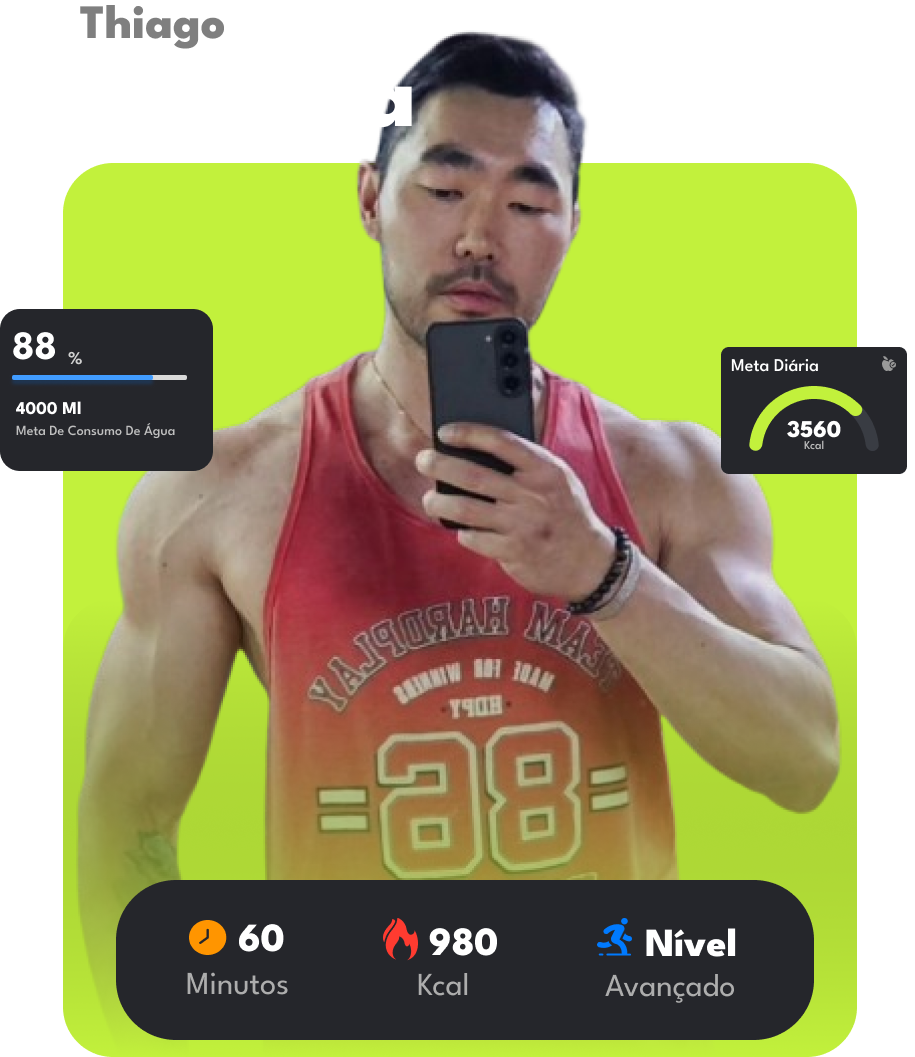
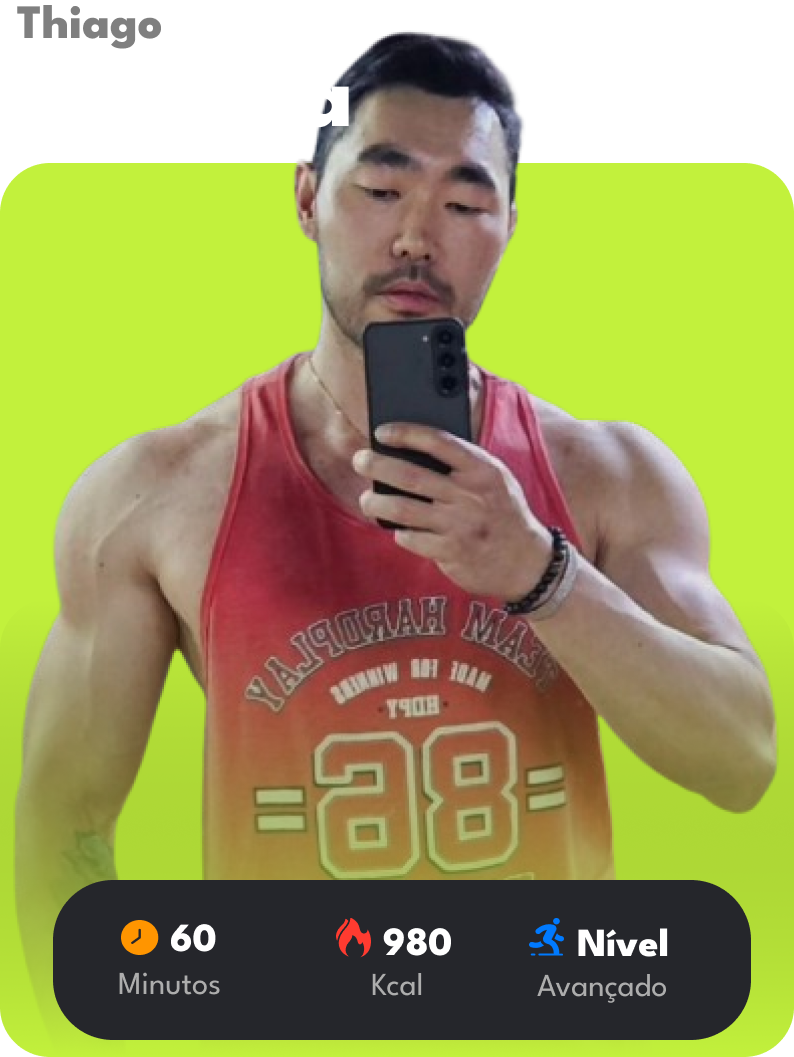
fix: contact

diff --git a/css/main.css b/css/main.css
@@ -1,1 +1,1 @@
-*{margin:0;padding:0;list-style-type:none;list-style:none;text-decoration:none;outline:none;border:none;-webkit-box-sizing:border-box;box-sizing:border-box;font-family:"Inter",sans-serif}img{max-width:100%;display:block}html{font-size:62.5%;overflow-x:hidden}body{overflow-x:hidden}button{background-color:rgba(0,0,0,0);cursor:pointer}.container{width:100%;max-width:124.6rem;padding:0 15px;margin:0 auto}.d-flex{display:-webkit-box;display:-ms-flexbox;display:flex}.logo{display:-webkit-box;display:-ms-flexbox;display:flex;-webkit-box-align:center;-ms-flex-align:center;align-items:center}.between{-webkit-box-pack:justify;-ms-flex-pack:justify;justify-content:space-between}.text-center{text-align:center}.align-center{-webkit-box-align:center;-ms-flex-align:center;align-items:center}.color-green-light{color:#c2f13c}.text-dark{color:#33303e}.text-gray-light{color:#cbcbcb}.color-light{color:#fff}.text-cancel{color:#ced7e1}.btn-whats{display:none;position:fixed;bottom:25px;right:20px;background-color:#c2f13c;padding:12px 12px 10px 13px;border-radius:50px;z-index:10;-webkit-box-shadow:5px 1px 15px 2px rgba(0,0,0,.26);box-shadow:5px 1px 15px 2px rgba(0,0,0,.26)}.mt-1{margin-top:.25rem}.mt-2{margin-top:.5rem}.mt-3{margin-top:1rem}.mt-4{margin-top:1.5rem}.mt-5{margin-top:3rem}.mr-1{margin-right:.25rem}.mr-2{margin-right:.5rem}.mr-3{margin-right:1rem}.mr-4{margin-right:1.5rem}.mr-5{margin-right:3rem}.mb-1{margin-bottom:.25rem}.mb-2{margin-bottom:.5rem}.mb-3{margin-bottom:1rem}.mb-4{margin-bottom:1.5rem}.mb-5{margin-bottom:3rem}.ml-1{margin-left:.25rem}.ml-2{margin-left:.5rem}.ml-3{margin-left:1rem}.ml-4{margin-left:1.5rem}.ml-5{margin-left:3rem}.pt-1{padding-top:.25rem}.pt-2{padding-top:.5rem}.pt-3{padding-top:1rem}.pt-4{padding-top:1.5rem}.pt-5{padding-top:3rem}.pr-1{padding-right:.25rem}.pr-2{padding-right:.5rem}.pr-3{padding-right:1rem}.pr-4{padding-right:1.5rem}.pr-5{padding-right:3rem}.pb-1{padding-bottom:.25rem}.pb-2{padding-bottom:.5rem}.pb-3{padding-bottom:1rem}.pb-4{padding-bottom:1.5rem}.pb-5{padding-bottom:3rem}.pl-1{padding-left:.25rem}.pl-2{padding-left:.5rem}.pl-3{padding-left:1rem}.pl-4{padding-left:1.5rem}.pl-5{padding-left:3rem}.mx-auto{margin-left:auto;margin-right:auto}.my-auto{margin-top:auto;margin-bottom:auto}h1{font-weight:600;font-size:6.4rem}h2{font-weight:bold;font-size:4rem}h3{font-size:2.4rem;line-height:150%}h4{font-size:2rem;line-height:112%}h1,h2{line-height:112%;letter-spacing:-1px}h3,h4{font-weight:500;letter-spacing:-1px}h1,h2,h3,h4{font-family:"Barlow",sans-serif;color:#242424}p{font-weight:400;font-size:1.8rem;line-height:150%;color:#33303e;font-family:"Nunito",sans-serif}.subtitle{color:#a1ff14;display:table;font-size:1.4rem;font-weight:500;padding:2px 15px;border-radius:25px;margin:0 auto;text-transform:uppercase}.title-section{font-weight:600;font-size:3.5rem;text-align:center;margin-top:8px}.btn-primary,.btn-secondary{font-family:"Montserrat",sans-serif;border-radius:34px;padding:0 2rem 0 1rem;font-size:1.8rem;line-height:5rem;font-weight:500;-webkit-box-shadow:rgba(157,191,59,.2196078431) 0px 20px 30px -10px;box-shadow:rgba(157,191,59,.2196078431) 0px 20px 30px -10px}.btn-primary{background-color:#c2f13c;font-weight:500;color:#2b2b2b;-webkit-transition:background-color .3s;transition:background-color .3s;color:#242424}.btn-primary:hover{background-color:#a1ff14}.btn-secondary{font-family:"Nunito",sans-serif;background-color:rgba(0,0,0,0);color:#fff;-webkit-transition:all .3s ease-in;transition:all .3s ease-in;border:1px solid #c2f13c}.btn-secondary:hover{background-color:#c2f13c;color:#242424}@media(max-width: 600px){.btn-primary{line-height:.8rem;height:45px;padding:0 2rem;font-size:1.5rem}}header{position:fixed;top:0;left:0;width:80%;margin-top:10px;border-radius:50px;height:6rem;display:-webkit-box;display:-ms-flexbox;display:flex;z-index:12;border:1px solid rgba(255,255,255,.168627451);background-color:rgba(0,0,0,.733);left:10%}header .container{display:-webkit-box;display:-ms-flexbox;display:flex;-webkit-box-orient:vertical;-webkit-box-direction:normal;-ms-flex-direction:center;flex-direction:center;-webkit-box-align:center;-ms-flex-align:center;align-items:center;-webkit-box-pack:justify;-ms-flex-pack:justify;justify-content:space-between}header .btn-secondary{padding:1rem 2rem;line-height:0}header nav{display:-webkit-box;display:-ms-flexbox;display:flex;-webkit-box-align:center;-ms-flex-align:center;align-items:center}header nav ul{display:-webkit-box;display:-ms-flexbox;display:flex;-webkit-box-align:center;-ms-flex-align:center;align-items:center}header nav ul li{display:-webkit-box;display:-ms-flexbox;display:flex}header nav ul li img{margin-left:1.2rem}header nav ul li:not(:first-child){margin-left:4.8rem}header nav ul li a{font-family:"Inter",sans-serif;font-weight:500;font-size:1.6rem;line-height:125%;color:#fff;opacity:.7;-webkit-transition:color .3s;transition:color .3s}header nav ul li a:hover{color:#c2f13c}@media(max-width: 1024px){header nav ul li:not(:first-child){margin-left:2.8rem}}@media(max-width: 840px){header{height:6rem;display:-webkit-box;display:-ms-flexbox;display:flex;-webkit-box-align:center;-ms-flex-align:center;align-items:center}header nav ul{display:none}header .dots{display:block}header .btn-secondary{display:none}}.menu-mobile{background:#fff;border-radius:8px;width:100%;height:50vh;position:fixed;right:0;bottom:0;z-index:12;display:none}.menu-mobile::before{content:"";width:100%;height:50vh;background-color:rgba(0,0,0,.7098039216);position:absolute;top:-100%}.menu-mobile__icons{position:absolute;position:absolute;bottom:0;left:50%;-webkit-transform:translateX(-50%);transform:translateX(-50%)}.menu-mobile__icons svg{width:24px;margin:8px}.menu-mobile .icon-tabler-x{position:absolute;top:16px;right:16px}.menu-mobile ul{width:100%;position:absolute;top:50%;-webkit-transform:translateY(-55%);transform:translateY(-55%)}.menu-mobile ul li{text-align:center;font-size:2rem;margin:24px 0;font-weight:700}.menu-mobile ul li a{color:#242424}.show{display:block}.dots{color:#fff;background-color:#c2f13c;padding:8px;border-radius:40px;margin-right:16px;display:none}.dots .icons-dots{display:none}footer{background-color:#fff;color:#c6c5ce;border-top:2px solid #ecf2fb;padding-top:8rem;font-size:2rem;font-size:1.4rem;line-height:165%;z-index:1;position:relative}footer .footer_description{max-width:100%}footer .d-flex{-webkit-box-pack:justify;-ms-flex-pack:justify;justify-content:space-between}footer .d-flex h4{margin-bottom:24px;color:#7a7786}footer .d-flex a{color:#7a7786;margin:8px 0}footer .d-flex a:hover{color:#c2f13c}footer .d-flex address a{display:-webkit-box;display:-ms-flexbox;display:flex;-webkit-box-align:center;-ms-flex-align:center;align-items:center;margin-bottom:24px}footer .d-flex address span{margin-right:16px}footer .d-flex ul li{display:-webkit-box;display:-ms-flexbox;display:flex;-webkit-box-align:center;-ms-flex-align:center;align-items:center}footer .d-flex ul li span{margin-right:8px;display:-webkit-box;display:-ms-flexbox;display:flex;-webkit-box-align:center;-ms-flex-align:center;align-items:center;color:#7a7786}footer .credits{border-top:1px solid #272727;padding:3rem 0;margin-top:64px;position:relative;background:radial-gradient(circle at 50% 72%, #000000 0, #1a1a1a 55%);background-color:#170027}footer .credits .btn-top{position:absolute;top:-18px;left:50%;-webkit-transform:translateX(-50%);transform:translateX(-50%);background-color:#fff;border-radius:80px;width:34px;height:34px;border:1px solid #e1e1e1;display:-webkit-box;display:-ms-flexbox;display:flex;-webkit-box-align:center;-ms-flex-align:center;align-items:center;-webkit-box-pack:center;-ms-flex-pack:center;justify-content:center;-webkit-box-shadow:2px 6px 10px 2px rgba(0,0,0,.2);box-shadow:2px 6px 10px 2px rgba(0,0,0,.2);-webkit-transition:all .2s ease-in;transition:all .2s ease-in}footer .credits .btn-top svg{-webkit-transition:-webkit-transform .3s ease;transition:-webkit-transform .3s ease;transition:transform .3s ease;transition:transform .3s ease, -webkit-transform .3s ease}footer .credits .btn-top:hover{border:1px solid #c2f13c}footer .credits .btn-top:hover svg{-webkit-transform:translateY(-3px);transform:translateY(-3px)}footer .credits .container{display:-webkit-box;display:-ms-flexbox;display:flex;-webkit-box-orient:vertical;-webkit-box-direction:normal;-ms-flex-direction:center;flex-direction:center;-webkit-box-align:center;-ms-flex-align:center;align-items:center;-webkit-box-pack:justify;-ms-flex-pack:justify;justify-content:space-between}footer .credits .e-font-icon-svg{width:24px;color:#a1ff14;margin-right:16px}@media(max-width: 600px){footer .d-flex{-webkit-box-orient:vertical;-webkit-box-direction:normal;-ms-flex-direction:column;flex-direction:column}footer .d-flex h4{margin:24px 0}footer .wps-games{margin-top:16px;display:-webkit-box;display:-ms-flexbox;display:flex;-webkit-box-orient:vertical;-webkit-box-direction:normal;-ms-flex-direction:column;flex-direction:column}}@media(max-width: 500px){footer .credits{z-index:11;background-color:#c2f13c}}.s-hero{width:100%;height:100vh;display:-webkit-box;display:-ms-flexbox;display:flex;-webkit-box-orient:vertical;-webkit-box-direction:normal;-ms-flex-direction:center;flex-direction:center;-webkit-box-align:center;-ms-flex-align:center;align-items:center;-webkit-box-pack:center;-ms-flex-pack:center;justify-content:center;background:-webkit-gradient(linear, left top, left bottom, from(rgba(0, 0, 0, 0.5)), to(rgb(0, 0, 0))),url("../img/12.webp") no-repeat center center;background:linear-gradient(rgba(0, 0, 0, 0.5), rgb(0, 0, 0)),url("../img/12.webp") no-repeat center center;background-size:cover}.s-hero .d-flex{-webkit-box-align:center;-ms-flex-align:center;align-items:center}.s-hero .btn-primary svg{margin-right:8px;-webkit-transition:-webkit-transform .3s ease;transition:-webkit-transform .3s ease;transition:transform .3s ease;transition:transform .3s ease, -webkit-transform .3s ease;background-color:#242424;padding:4px;border-radius:50px}.s-hero .btn-primary:hover svg{-webkit-transform:translateY(-2px);transform:translateY(-2px)}.s-hero__text{margin-bottom:3.9rem;width:50%}.s-hero__text .lead{display:-webkit-inline-box;display:-ms-inline-flexbox;display:inline-flex;-webkit-box-align:center;-ms-flex-align:center;align-items:center;color:#c2f13c;font-size:1.6rem;font-weight:500;border-radius:20px}.s-hero__text .title{font-size:8.5rem;line-height:120%;font-weight:600;color:#fff;max-width:74rem}.s-hero__text .description{max-width:50rem;margin-top:3.4rem;margin-bottom:4rem;font-weight:400;font-size:2rem;line-height:150%;color:#fff}.s-hero__image{margin:0 auto;width:55%;position:relative}.s-hero__image .selo{position:absolute;top:0;right:19%;background-color:rgba(0,0,0,.55);border:1px solid rgba(196,196,196,0.2784313725);-webkit-backdrop-filter:blur(4px);backdrop-filter:blur(4px);border-radius:100%;width:100px;height:100px;-webkit-animation:girar 10s linear infinite;animation:girar 10s linear infinite}@-webkit-keyframes girar{from{-webkit-transform:rotate(0deg);transform:rotate(0deg)}to{-webkit-transform:rotate(360deg);transform:rotate(360deg)}}@keyframes girar{from{-webkit-transform:rotate(0deg);transform:rotate(0deg)}to{-webkit-transform:rotate(360deg);transform:rotate(360deg)}}.s-hero__image img{border-radius:10px}.s-hero .infos{position:absolute;bottom:0;width:40%;left:50%;-webkit-transform:translateX(-50%);transform:translateX(-50%);margin:0 auto;-webkit-backdrop-filter:blur(4px);backdrop-filter:blur(4px);background-color:rgba(222,222,222,.05);text-align:center;border:1px solid rgba(96,96,96,.3294117647)}.s-hero .infos li{border-bottom:2px solid #c2f13c;padding:9px;width:30%}.s-hero .infos__title{color:#c2f13c;font-size:3.5rem}.s-hero .infos__description{font-size:1.8rem;color:#fff}@media(max-width: 1024px){.s-hero__text .title{font-size:3rem;line-height:110%}.s-hero .infos{width:100%;bottom:0}}@media(max-width: 800px){.s-hero{padding-top:8rem}.s-hero .d-flex{-webkit-box-orient:vertical;-webkit-box-direction:normal;-ms-flex-direction:column;flex-direction:column}.s-hero__text{text-align:center;width:100%}.s-hero__text .btn-primary{margin:0 auto;display:-webkit-box;display:-ms-flexbox;display:flex;-webkit-box-pack:center;-ms-flex-pack:center;justify-content:center;-webkit-box-orient:horizontal;-webkit-box-direction:normal;-ms-flex-direction:row;flex-direction:row}.s-hero__text .title{font-size:5rem}.s-hero__text .description{max-width:100%;margin:3rem auto;font-size:1.6rem}.s-hero__text .lead{-webkit-box-align:center;-ms-flex-align:center;align-items:center;-webkit-box-pack:center;-ms-flex-pack:center;justify-content:center}.s-hero__text .lead span{display:none}.s-hero__image{width:100%}.s-hero .infos{width:100%;margin-left:0;-webkit-box-orient:horizontal;-webkit-box-direction:normal;-ms-flex-direction:row;flex-direction:row}.s-hero .infos__description{font-size:1.4rem}.s-hero .infos svg{width:24px}}.s-about{padding:90px 0;background-color:#111214;background-image:url("../img/boxe.webp");background-repeat:no-repeat;background-position:0 -50px}.s-about .d-flex{margin-top:80px;-webkit-box-pack:justify;-ms-flex-pack:justify;justify-content:space-between;-webkit-box-align:center;-ms-flex-align:center;align-items:center}.s-about svg{padding:4px;border-radius:4px;-webkit-backdrop-filter:blur(4px);backdrop-filter:blur(4px);background-color:rgba(222,222,222,.05);border:1px solid #2a2a2a}.s-about__text{width:50%}.s-about__text svg{margin-top:20px}.s-about__text-title{margin-top:10px;margin-bottom:50px}.s-about__text-lead{margin-top:20px;font-size:2rem;color:#fff;border-left:2px solid #a1ff14;padding-left:16px}.s-about__image{width:40%}@media(max-width: 800px){.s-about .d-flex{-webkit-box-orient:vertical;-webkit-box-direction:normal;-ms-flex-direction:column;flex-direction:column}.s-about__image,.s-about__text{width:100%}.s-about__image{margin-top:80px}}.s-service{padding:90px 0;background-color:#000;background:-webkit-gradient(linear, left top, left bottom, from(rgba(0, 0, 0, 0.5)), to(rgb(0, 0, 0))),url("../img/60.jpg") no-repeat center center;background:linear-gradient(rgba(0, 0, 0, 0.5), rgb(0, 0, 0)),url("../img/60.jpg") no-repeat center center;background-size:cover}.s-service-title{font-size:3rem;margin-bottom:40px}.s-service-title span{font-size:7rem;color:#a1ff14}.s-service .orcamento{width:100%;padding:24px;margin-top:70px;position:relative;background-color:#a1ff14;color:#242424;padding-top:2.9rem;padding-bottom:5.9rem;background-image:url("../img/halteres.png");background-size:cover;background-repeat:no-repeat;background-position:402px -50px;border-radius:20px}.s-service .orcamento .btn-primary{background-color:#242424;color:#a1ff14;max-width:275px;font-weight:500;margin-top:55px;display:-webkit-box;display:-ms-flexbox;display:flex;text-align:center;-webkit-box-pack:center;-ms-flex-pack:center;justify-content:center;-webkit-box-align:center;-ms-flex-align:center;align-items:center}.s-service .orcamento .btn-primary svg{-webkit-transition:-webkit-transform .3s ease;transition:-webkit-transform .3s ease;transition:transform .3s ease;transition:transform .3s ease, -webkit-transform .3s ease}.s-service .orcamento .btn-primary:hover svg{-webkit-transform:translateX(8px);transform:translateX(8px)}.s-service .orcamento h2,.s-service .orcamento p{text-align:left}.s-service .orcamento p{max-width:50%;margin-top:30px}.s-service .box-container{display:-webkit-box;display:-ms-flexbox;display:flex;-webkit-box-align:center;-ms-flex-align:center;align-items:center;-webkit-box-pack:center;-ms-flex-pack:center;justify-content:center;gap:50px;margin-top:80px}.s-service .box{width:25%;background-color:#fff;border:1px solid #ececec;border-radius:10px;padding:16px;position:relative}.s-service .box .badge{background-color:#a1ff14;padding:4px 8px;color:#a1ff14;border-radius:8px;font-weight:500;font-size:1.2rem;display:table;margin:0 auto;position:absolute;left:50%;-webkit-transform:translateX(-50%);transform:translateX(-50%)}.s-service .box .d-flex-price{display:-webkit-box;display:-ms-flexbox;display:flex;margin-top:8px;-webkit-box-pack:justify;-ms-flex-pack:justify;justify-content:space-between;-webkit-box-align:center;-ms-flex-align:center;align-items:center}.s-service .box .price{color:#a1ff14;font-weight:600}.s-service .box ul{margin-top:5rem}.s-service .box ul li{display:-webkit-box;display:-ms-flexbox;display:flex;font-size:1.6rem;margin-bottom:2rem}.s-service .box ul li img{margin-right:16px}.s-service .box .btn-price{background-color:#a1ff14;color:#242424;font-weight:600;padding:8px 16px;border-radius:4px;font-size:1.6rem;display:-webkit-box;display:-ms-flexbox;display:flex;-webkit-box-align:center;-ms-flex-align:center;align-items:center;-webkit-box-pack:center;-ms-flex-pack:center;justify-content:center;width:80%;margin:0 auto;margin-top:60px;-webkit-transition:all .3s ease;transition:all .3s ease;margin-bottom:24px}.s-service .box .btn-price:hover{background-color:#242424;color:#c2f13c}.s-service .box:hover{border:1px solid #a1ff14}@media(max-width: 800px){.s-service .orcamento{background-position:220px 98px}.s-service .orcamento p{max-width:80%;margin-top:30px}.s-service .d-flex{-webkit-box-orient:vertical;-webkit-box-direction:normal;-ms-flex-direction:column;flex-direction:column;margin-top:2.5rem}.s-service .box{width:90%}}.s-contact{padding:90px 0;background-color:#f5f7fa}.s-contact .d-flex{max-width:80%;margin:0 auto;-ms-flex-wrap:wrap;flex-wrap:wrap;margin-top:80px;-webkit-box-pack:justify;-ms-flex-pack:justify;justify-content:space-between}.s-contact .d-flex .item{width:31%}.s-contact .d-flex .item p{color:#7a7786}.s-contact .d-flex .item:last-child p{max-width:80%}.s-contact .card{background-color:#fff;border-radius:12px;padding:24px;position:relative;-webkit-transition:all .3s ease-in-out;transition:all .3s ease-in-out}.s-contact .card h3{margin-top:12px}.s-contact .card p{font-size:1.6rem;margin-top:12px}.s-contact .card:hover{background-color:#a6ffff}.s-contact .card:hover .btn-contact{background-color:#fff}.s-contact .btn-contact{background-color:#c2f13c;padding:9px 10px;display:inline-block;-webkit-box-align:center;-ms-flex-align:center;align-items:center;-webkit-box-pack:center;-ms-flex-pack:center;justify-content:center;border-radius:100px;margin-top:24px;float:inline-end;position:absolute;right:14px;bottom:14px;margin-top:16px}.s-contact .btn-contact svg{-webkit-transition:-webkit-transform .3s ease;transition:-webkit-transform .3s ease;transition:transform .3s ease;transition:transform .3s ease, -webkit-transform .3s ease}.s-contact .btn-contact:hover svg{-webkit-transform:translatex(3px);transform:translatex(3px)}@media(max-width: 800px){.s-contact .d-flex{-webkit-box-orient:vertical;-webkit-box-direction:normal;-ms-flex-direction:column;flex-direction:column}.s-contact .d-flex .item{width:100%;margin-bottom:16px}}
+*{margin:0;padding:0;list-style-type:none;list-style:none;text-decoration:none;outline:none;border:none;-webkit-box-sizing:border-box;box-sizing:border-box;font-family:"Inter",sans-serif}img{max-width:100%;display:block}html{font-size:62.5%;overflow-x:hidden}body{overflow-x:hidden}button{background-color:rgba(0,0,0,0);cursor:pointer}.container{width:100%;max-width:124.6rem;padding:0 15px;margin:0 auto}.d-flex{display:-webkit-box;display:-ms-flexbox;display:flex}.logo{display:-webkit-box;display:-ms-flexbox;display:flex;-webkit-box-align:center;-ms-flex-align:center;align-items:center}.between{-webkit-box-pack:justify;-ms-flex-pack:justify;justify-content:space-between}.text-center{text-align:center}.align-center{-webkit-box-align:center;-ms-flex-align:center;align-items:center}.color-green-light{color:#c2f13c}.text-dark{color:#33303e}.text-gray-light{color:#cbcbcb}.color-light{color:#fff}.text-cancel{color:#ced7e1}.btn-whats{display:none;position:fixed;bottom:25px;right:20px;background-color:#c2f13c;padding:12px 12px 10px 13px;border-radius:50px;z-index:10;-webkit-box-shadow:5px 1px 15px 2px rgba(0,0,0,.26);box-shadow:5px 1px 15px 2px rgba(0,0,0,.26)}.mt-1{margin-top:.25rem}.mt-2{margin-top:.5rem}.mt-3{margin-top:1rem}.mt-4{margin-top:1.5rem}.mt-5{margin-top:3rem}.mr-1{margin-right:.25rem}.mr-2{margin-right:.5rem}.mr-3{margin-right:1rem}.mr-4{margin-right:1.5rem}.mr-5{margin-right:3rem}.mb-1{margin-bottom:.25rem}.mb-2{margin-bottom:.5rem}.mb-3{margin-bottom:1rem}.mb-4{margin-bottom:1.5rem}.mb-5{margin-bottom:3rem}.ml-1{margin-left:.25rem}.ml-2{margin-left:.5rem}.ml-3{margin-left:1rem}.ml-4{margin-left:1.5rem}.ml-5{margin-left:3rem}.pt-1{padding-top:.25rem}.pt-2{padding-top:.5rem}.pt-3{padding-top:1rem}.pt-4{padding-top:1.5rem}.pt-5{padding-top:3rem}.pr-1{padding-right:.25rem}.pr-2{padding-right:.5rem}.pr-3{padding-right:1rem}.pr-4{padding-right:1.5rem}.pr-5{padding-right:3rem}.pb-1{padding-bottom:.25rem}.pb-2{padding-bottom:.5rem}.pb-3{padding-bottom:1rem}.pb-4{padding-bottom:1.5rem}.pb-5{padding-bottom:3rem}.pl-1{padding-left:.25rem}.pl-2{padding-left:.5rem}.pl-3{padding-left:1rem}.pl-4{padding-left:1.5rem}.pl-5{padding-left:3rem}.mx-auto{margin-left:auto;margin-right:auto}.my-auto{margin-top:auto;margin-bottom:auto}h1{font-weight:600;font-size:6.4rem}h2{font-weight:bold;font-size:4rem}h3{font-size:2.4rem;line-height:150%}h4{font-size:2rem;line-height:112%}h1,h2{line-height:112%;letter-spacing:-1px}h3,h4{font-weight:500;letter-spacing:-1px}h1,h2,h3,h4{font-family:"Barlow",sans-serif;color:#242424}p{font-weight:400;font-size:1.8rem;line-height:150%;color:#33303e;font-family:"Nunito",sans-serif}.subtitle{color:#a1ff14;display:table;font-size:1.4rem;font-weight:500;padding:2px 15px;border-radius:25px;margin:0 auto;text-transform:uppercase}.title-section{font-weight:600;font-size:3.5rem;text-align:center;margin-top:8px}.btn-primary,.btn-secondary{font-family:"Montserrat",sans-serif;border-radius:34px;padding:0 2rem 0 1rem;font-size:1.8rem;line-height:5rem;font-weight:500;-webkit-box-shadow:rgba(157,191,59,.2196078431) 0px 20px 30px -10px;box-shadow:rgba(157,191,59,.2196078431) 0px 20px 30px -10px}.btn-primary{background-color:#c2f13c;font-weight:500;color:#2b2b2b;-webkit-transition:background-color .3s;transition:background-color .3s;color:#242424}.btn-primary:hover{background-color:#a1ff14}.btn-secondary{font-family:"Nunito",sans-serif;background-color:rgba(0,0,0,0);color:#fff;-webkit-transition:all .3s ease-in;transition:all .3s ease-in;border:1px solid #c2f13c}.btn-secondary:hover{background-color:#c2f13c;color:#242424}@media(max-width: 600px){.btn-primary{line-height:.8rem;height:45px;padding:0 2rem;font-size:1.5rem}}header{position:fixed;top:0;left:0;width:80%;margin-top:10px;border-radius:50px;height:6rem;display:-webkit-box;display:-ms-flexbox;display:flex;z-index:12;border:1px solid rgba(255,255,255,.168627451);background-color:rgba(0,0,0,.733);left:10%}header .container{display:-webkit-box;display:-ms-flexbox;display:flex;-webkit-box-orient:vertical;-webkit-box-direction:normal;-ms-flex-direction:center;flex-direction:center;-webkit-box-align:center;-ms-flex-align:center;align-items:center;-webkit-box-pack:justify;-ms-flex-pack:justify;justify-content:space-between}header .btn-secondary{padding:1rem 2rem;line-height:0}header nav{display:-webkit-box;display:-ms-flexbox;display:flex;-webkit-box-align:center;-ms-flex-align:center;align-items:center}header nav ul{display:-webkit-box;display:-ms-flexbox;display:flex;-webkit-box-align:center;-ms-flex-align:center;align-items:center}header nav ul li{display:-webkit-box;display:-ms-flexbox;display:flex}header nav ul li img{margin-left:1.2rem}header nav ul li:not(:first-child){margin-left:4.8rem}header nav ul li a{font-family:"Inter",sans-serif;font-weight:500;font-size:1.6rem;line-height:125%;color:#fff;opacity:.7;-webkit-transition:color .3s;transition:color .3s}header nav ul li a:hover{color:#c2f13c}@media(max-width: 1024px){header nav ul li:not(:first-child){margin-left:2.8rem}}@media(max-width: 840px){header{height:6rem;display:-webkit-box;display:-ms-flexbox;display:flex;-webkit-box-align:center;-ms-flex-align:center;align-items:center}header nav ul{display:none}header .dots{display:block}header .btn-secondary{display:none}}.menu-mobile{background:#fff;border-radius:8px;width:100%;height:50vh;position:fixed;right:0;bottom:0;z-index:12;display:none}.menu-mobile::before{content:"";width:100%;height:50vh;background-color:rgba(0,0,0,.7098039216);position:absolute;top:-100%}.menu-mobile__icons{position:absolute;position:absolute;bottom:0;left:50%;-webkit-transform:translateX(-50%);transform:translateX(-50%)}.menu-mobile__icons svg{width:24px;margin:8px}.menu-mobile .icon-tabler-x{position:absolute;top:16px;right:16px}.menu-mobile ul{width:100%;position:absolute;top:50%;-webkit-transform:translateY(-55%);transform:translateY(-55%)}.menu-mobile ul li{text-align:center;font-size:2rem;margin:24px 0;font-weight:700}.menu-mobile ul li a{color:#242424}.show{display:block}.dots{color:#fff;background-color:#c2f13c;padding:8px;border-radius:40px;margin-right:16px;display:none}.dots .icons-dots{display:none}footer{background-color:#fff;color:#c6c5ce;border-top:2px solid #ecf2fb;padding-top:8rem;font-size:2rem;font-size:1.4rem;line-height:165%;z-index:1;position:relative}footer .footer_description{max-width:100%}footer .d-flex{-webkit-box-pack:justify;-ms-flex-pack:justify;justify-content:space-between}footer .d-flex h4{margin-bottom:24px;color:#7a7786}footer .d-flex a{color:#7a7786;margin:8px 0}footer .d-flex a:hover{color:#c2f13c}footer .d-flex address a{display:-webkit-box;display:-ms-flexbox;display:flex;-webkit-box-align:center;-ms-flex-align:center;align-items:center;margin-bottom:24px}footer .d-flex address span{margin-right:16px}footer .d-flex ul li{display:-webkit-box;display:-ms-flexbox;display:flex;-webkit-box-align:center;-ms-flex-align:center;align-items:center}footer .d-flex ul li span{margin-right:8px;display:-webkit-box;display:-ms-flexbox;display:flex;-webkit-box-align:center;-ms-flex-align:center;align-items:center;color:#7a7786}footer .credits{border-top:1px solid #272727;padding:3rem 0;margin-top:64px;position:relative;background:radial-gradient(circle at 50% 72%, #000000 0, #1a1a1a 55%);background-color:#170027}footer .credits .btn-top{position:absolute;top:-18px;left:50%;-webkit-transform:translateX(-50%);transform:translateX(-50%);background-color:#fff;border-radius:80px;width:34px;height:34px;border:1px solid #e1e1e1;display:-webkit-box;display:-ms-flexbox;display:flex;-webkit-box-align:center;-ms-flex-align:center;align-items:center;-webkit-box-pack:center;-ms-flex-pack:center;justify-content:center;-webkit-box-shadow:2px 6px 10px 2px rgba(0,0,0,.2);box-shadow:2px 6px 10px 2px rgba(0,0,0,.2);-webkit-transition:all .2s ease-in;transition:all .2s ease-in}footer .credits .btn-top svg{-webkit-transition:-webkit-transform .3s ease;transition:-webkit-transform .3s ease;transition:transform .3s ease;transition:transform .3s ease, -webkit-transform .3s ease}footer .credits .btn-top:hover{border:1px solid #c2f13c}footer .credits .btn-top:hover svg{-webkit-transform:translateY(-3px);transform:translateY(-3px)}footer .credits .container{display:-webkit-box;display:-ms-flexbox;display:flex;-webkit-box-orient:vertical;-webkit-box-direction:normal;-ms-flex-direction:center;flex-direction:center;-webkit-box-align:center;-ms-flex-align:center;align-items:center;-webkit-box-pack:justify;-ms-flex-pack:justify;justify-content:space-between}footer .credits .e-font-icon-svg{width:24px;color:#a1ff14;margin-right:16px}@media(max-width: 600px){footer .d-flex{-webkit-box-orient:vertical;-webkit-box-direction:normal;-ms-flex-direction:column;flex-direction:column}footer .d-flex h4{margin:24px 0}footer .wps-games{margin-top:16px;display:-webkit-box;display:-ms-flexbox;display:flex;-webkit-box-orient:vertical;-webkit-box-direction:normal;-ms-flex-direction:column;flex-direction:column}}@media(max-width: 500px){footer .credits{z-index:11;background-color:#c2f13c}}.s-hero{width:100%;height:100vh;display:-webkit-box;display:-ms-flexbox;display:flex;-webkit-box-orient:vertical;-webkit-box-direction:normal;-ms-flex-direction:center;flex-direction:center;-webkit-box-align:center;-ms-flex-align:center;align-items:center;-webkit-box-pack:center;-ms-flex-pack:center;justify-content:center;background:-webkit-gradient(linear, left top, left bottom, from(rgba(0, 0, 0, 0.5)), to(rgb(0, 0, 0))),url("../img/12.webp") no-repeat center center;background:linear-gradient(rgba(0, 0, 0, 0.5), rgb(0, 0, 0)),url("../img/12.webp") no-repeat center center;background-size:cover}.s-hero .d-flex{-webkit-box-align:center;-ms-flex-align:center;align-items:center}.s-hero .btn-primary svg{margin-right:8px;-webkit-transition:-webkit-transform .3s ease;transition:-webkit-transform .3s ease;transition:transform .3s ease;transition:transform .3s ease, -webkit-transform .3s ease;background-color:#242424;padding:4px;border-radius:50px}.s-hero .btn-primary:hover svg{-webkit-transform:translateY(-2px);transform:translateY(-2px)}.s-hero__text{margin-bottom:3.9rem;width:50%}.s-hero__text .lead{display:-webkit-inline-box;display:-ms-inline-flexbox;display:inline-flex;-webkit-box-align:center;-ms-flex-align:center;align-items:center;color:#c2f13c;font-size:1.6rem;font-weight:500;border-radius:20px}.s-hero__text .title{font-size:8.5rem;line-height:120%;font-weight:600;color:#fff;max-width:74rem}.s-hero__text .description{max-width:50rem;margin-top:3.4rem;margin-bottom:4rem;font-weight:400;font-size:2rem;line-height:150%;color:#fff}.s-hero__image{margin:0 auto;width:55%;position:relative}.s-hero__image .selo{position:absolute;top:33px;right:23%;background-color:rgba(0,0,0,.55);border:1px solid rgba(196,196,196,0.2784313725);-webkit-backdrop-filter:blur(4px);backdrop-filter:blur(4px);border-radius:100%;width:100px;height:100px;-webkit-animation:girar 10s linear infinite;animation:girar 10s linear infinite}@-webkit-keyframes girar{from{-webkit-transform:rotate(0deg);transform:rotate(0deg)}to{-webkit-transform:rotate(360deg);transform:rotate(360deg)}}@keyframes girar{from{-webkit-transform:rotate(0deg);transform:rotate(0deg)}to{-webkit-transform:rotate(360deg);transform:rotate(360deg)}}.s-hero__image img{border-radius:10px}.s-hero .infos{position:absolute;bottom:0;width:40%;left:50%;-webkit-transform:translateX(-50%);transform:translateX(-50%);margin:0 auto;-webkit-backdrop-filter:blur(4px);backdrop-filter:blur(4px);background-color:rgba(222,222,222,.05);text-align:center;border:1px solid rgba(96,96,96,.3294117647)}.s-hero .infos li{border-bottom:2px solid #c2f13c;padding:9px;width:30%}.s-hero .infos__title{color:#c2f13c;font-size:3.5rem}.s-hero .infos__description{font-size:1.8rem;color:#fff}@media(max-width: 1024px){.s-hero__text .title{font-size:3rem;line-height:110%}.s-hero .infos{width:100%;bottom:0}}@media(max-width: 800px){.s-hero{padding-top:8rem}.s-hero .d-flex{-webkit-box-orient:vertical;-webkit-box-direction:normal;-ms-flex-direction:column;flex-direction:column}.s-hero__text{text-align:center;width:100%}.s-hero__text .btn-primary{margin:0 auto;display:-webkit-box;display:-ms-flexbox;display:flex;-webkit-box-pack:center;-ms-flex-pack:center;justify-content:center;-webkit-box-orient:horizontal;-webkit-box-direction:normal;-ms-flex-direction:row;flex-direction:row}.s-hero__text .title{font-size:5rem}.s-hero__text .description{max-width:100%;margin:3rem auto;font-size:1.6rem}.s-hero__text .lead{-webkit-box-align:center;-ms-flex-align:center;align-items:center;-webkit-box-pack:center;-ms-flex-pack:center;justify-content:center}.s-hero__text .lead span{display:none}.s-hero__image{width:100%}.s-hero .infos{width:100%;margin-left:0;-webkit-box-orient:horizontal;-webkit-box-direction:normal;-ms-flex-direction:row;flex-direction:row}.s-hero .infos__description{font-size:1.4rem}.s-hero .infos svg{width:24px}}.s-about{padding:90px 0;background-color:#111214;background-image:url("../img/boxe.webp");background-repeat:no-repeat;background-position:0 -50px}.s-about .d-flex{margin-top:80px;-webkit-box-pack:justify;-ms-flex-pack:justify;justify-content:space-between;-webkit-box-align:center;-ms-flex-align:center;align-items:center}.s-about svg{padding:4px;border-radius:4px;-webkit-backdrop-filter:blur(4px);backdrop-filter:blur(4px);background-color:rgba(222,222,222,.05);border:1px solid #2a2a2a}.s-about__text{width:50%}.s-about__text svg{margin-top:20px}.s-about__text-title{margin-top:10px;margin-bottom:50px}.s-about__text-lead{margin-top:20px;font-size:2rem;color:#fff;border-left:2px solid #a1ff14;padding-left:16px}.s-about__image{width:40%;position:relative}.s-about__image .tag-agua{position:absolute;top:30%;background-color:rgba(0,0,0,.85);-webkit-backdrop-filter:blur(4px);backdrop-filter:blur(4px);border-radius:10px;padding:8px;-webkit-animation:subirDescer 5s ease-in-out infinite;animation:subirDescer 5s ease-in-out infinite}.s-about__image .tag-kcal{position:absolute;right:0;top:50%;-webkit-backdrop-filter:blur(4px);backdrop-filter:blur(4px);border-radius:10px;background-color:rgba(0,0,0,.65);padding:8px;-webkit-animation:subirDescer 5s ease-in-out infinite;animation:subirDescer 5s ease-in-out infinite}@-webkit-keyframes subirDescer{0%{-webkit-transform:translateY(0);transform:translateY(0)}50%{-webkit-transform:translateY(-20px);transform:translateY(-20px)}100%{-webkit-transform:translateY(0);transform:translateY(0)}}@keyframes subirDescer{0%{-webkit-transform:translateY(0);transform:translateY(0)}50%{-webkit-transform:translateY(-20px);transform:translateY(-20px)}100%{-webkit-transform:translateY(0);transform:translateY(0)}}@media(max-width: 800px){.s-about .d-flex{-webkit-box-orient:vertical;-webkit-box-direction:normal;-ms-flex-direction:column;flex-direction:column}.s-about__image,.s-about__text{width:100%}.s-about__image{margin-top:80px}}.s-service{padding:90px 0;background-color:#000;background:-webkit-gradient(linear, left top, left bottom, from(rgba(0, 0, 0, 0.5)), to(rgb(0, 0, 0))),url("../img/60.jpg") no-repeat center center;background:linear-gradient(rgba(0, 0, 0, 0.5), rgb(0, 0, 0)),url("../img/60.jpg") no-repeat center center;background-size:cover}.s-service-title{font-size:3rem;margin-bottom:40px}.s-service-title span{font-size:7rem;color:#a1ff14}.s-service .orcamento{width:100%;padding:24px;margin-top:70px;position:relative;background-color:#a1ff14;color:#242424;padding-top:2.9rem;padding-bottom:5.9rem;background-image:url("../img/halteres.png");background-size:cover;background-repeat:no-repeat;background-position:402px -50px;border-radius:20px}.s-service .orcamento .btn-primary{background-color:#242424;color:#a1ff14;max-width:275px;font-weight:500;margin-top:55px;display:-webkit-box;display:-ms-flexbox;display:flex;text-align:center;-webkit-box-pack:center;-ms-flex-pack:center;justify-content:center;-webkit-box-align:center;-ms-flex-align:center;align-items:center}.s-service .orcamento .btn-primary svg{-webkit-transition:-webkit-transform .3s ease;transition:-webkit-transform .3s ease;transition:transform .3s ease;transition:transform .3s ease, -webkit-transform .3s ease}.s-service .orcamento .btn-primary:hover svg{-webkit-transform:translateX(8px);transform:translateX(8px)}.s-service .orcamento h2,.s-service .orcamento p{text-align:left}.s-service .orcamento p{max-width:50%;margin-top:30px}.s-service .box-container{display:-webkit-box;display:-ms-flexbox;display:flex;-webkit-box-align:center;-ms-flex-align:center;align-items:center;-webkit-box-pack:center;-ms-flex-pack:center;justify-content:center;gap:50px;margin-top:80px}.s-service .box{width:25%;background-color:#fff;border:1px solid #ececec;border-radius:10px;padding:16px;position:relative}.s-service .box .badge{background-color:#a1ff14;padding:4px 8px;color:#a1ff14;border-radius:8px;font-weight:500;font-size:1.2rem;display:table;margin:0 auto;position:absolute;left:50%;-webkit-transform:translateX(-50%);transform:translateX(-50%)}.s-service .box .d-flex-price{display:-webkit-box;display:-ms-flexbox;display:flex;margin-top:8px;-webkit-box-pack:justify;-ms-flex-pack:justify;justify-content:space-between;-webkit-box-align:center;-ms-flex-align:center;align-items:center}.s-service .box .price{color:#a1ff14;font-weight:600}.s-service .box ul{margin-top:5rem}.s-service .box ul li{display:-webkit-box;display:-ms-flexbox;display:flex;font-size:1.6rem;margin-bottom:2rem}.s-service .box ul li img{margin-right:16px}.s-service .box .btn-price{background-color:#a1ff14;color:#242424;font-weight:600;padding:8px 16px;border-radius:4px;font-size:1.6rem;display:-webkit-box;display:-ms-flexbox;display:flex;-webkit-box-align:center;-ms-flex-align:center;align-items:center;-webkit-box-pack:center;-ms-flex-pack:center;justify-content:center;width:80%;margin:0 auto;margin-top:60px;-webkit-transition:all .3s ease;transition:all .3s ease;margin-bottom:24px}.s-service .box .btn-price:hover{background-color:#242424;color:#c2f13c}.s-service .box:hover{border:1px solid #a1ff14}@media(max-width: 800px){.s-service .orcamento{background-position:220px 98px}.s-service .orcamento p{max-width:80%;margin-top:30px}.s-service .d-flex{-webkit-box-orient:vertical;-webkit-box-direction:normal;-ms-flex-direction:column;flex-direction:column;margin-top:2.5rem}.s-service .box{width:90%}}.s-contact{padding:90px 0;background-color:#f5f7fa}.s-contact .d-flex{max-width:80%;margin:0 auto;-ms-flex-wrap:wrap;flex-wrap:wrap;margin-top:80px;-webkit-box-pack:justify;-ms-flex-pack:justify;justify-content:space-between}.s-contact .d-flex .item{width:31%}.s-contact .d-flex .item p{color:#7a7786}.s-contact .d-flex .item:last-child p{max-width:80%}.s-contact .card{background-color:#fff;border-radius:12px;padding:24px;position:relative;-webkit-transition:all .3s ease-in-out;transition:all .3s ease-in-out}.s-contact .card h3{margin-top:12px}.s-contact .card p{font-size:1.6rem;margin-top:12px}.s-contact .card:hover{background-color:#a1ff14}.s-contact .card:hover .btn-contact{background-color:#fff}.s-contact .btn-contact{background-color:#c2f13c;padding:9px 10px;display:inline-block;-webkit-box-align:center;-ms-flex-align:center;align-items:center;-webkit-box-pack:center;-ms-flex-pack:center;justify-content:center;border-radius:100px;margin-top:24px;float:inline-end;position:absolute;right:14px;bottom:14px;margin-top:16px}.s-contact .btn-contact svg{-webkit-transition:-webkit-transform .3s ease;transition:-webkit-transform .3s ease;transition:transform .3s ease;transition:transform .3s ease, -webkit-transform .3s ease}.s-contact .btn-contact:hover svg{-webkit-transform:translatex(3px);transform:translatex(3px)}@media(max-width: 800px){.s-contact .d-flex{-webkit-box-orient:vertical;-webkit-box-direction:normal;-ms-flex-direction:column;flex-direction:column}.s-contact .d-flex .item{width:100%;margin-bottom:16px}}

diff --git a/scss/_s-about.scss b/scss/_s-about.scss
@@ -44,6 +44,41 @@
 
     &__image {
         width: 40%;
+        position: relative;
+
+        .tag-agua {
+            position: absolute;
+            top: 30%;
+            background-color: rgba(0, 0, 0, 0.85);
+            backdrop-filter: blur(4px);
+            border-radius: 10px;
+
+            padding: 8px;
+            animation: subirDescer 5s ease-in-out infinite;
+        }
+
+        .tag-kcal {
+            position: absolute;
+            right: 0;
+            top: 50%;
+
+            backdrop-filter: blur(4px);
+            border-radius: 10px;
+            background-color: rgba(0, 0, 0, 0.65);
+            padding: 8px;
+            animation: subirDescer 5s ease-in-out infinite;
+        }
+        @keyframes subirDescer {
+            0% {
+                transform: translateY(0); /* Ponto inicial */
+            }
+            50% {
+                transform: translateY(-20px); /* Sobe 20px */
+            }
+            100% {
+                transform: translateY(0); /* Volta para o ponto inicial */
+            }
+        }
     }
 
     @include responsive($tablet) {

diff --git a/index.html b/index.html
@@ -272,6 +272,8 @@
 
         <div class="s-about__image">
           <img src="img/thago.png" alt="Thiago Nonaka">
+          <img src="img/tag-agua.svg" class="tag-agua" alt="Thiago Nonaka" width="120px">
+          <img src="img/tag-kcal.svg" class="tag-kcal" alt="Thiago Nonaka" width="110px">
 
         </div>
       </div>
@@ -495,7 +497,7 @@
               <span>
                 <img src="img/icon-mail.svg" alt="icone email">
               </span>
-              <a href="mailto:contato@contadora.com.br">contato@contadora.com.br</a>
+              <a href="mailto:contato@thiago.com.br">thiaho@gmail.com.br</a>
 
             </li>
 
@@ -552,7 +554,7 @@
 
 
         <div class="d-flex align-center">
-          Desenvolvido por: <a href="https://wpsgames.com.br"><img src="https://wpsgames.com.br/img/logo.png"
+          Desenvolvido por: <a href="https://wpsgames.com.br"><img src="https://wpsgames.com.br/assets/ico-crow.svg"
               alt="wps games" width="30px"></a>
         </div>
 

diff --git a/scss/_home.scss b/scss/_home.scss
@@ -74,8 +74,8 @@
 
         .selo {
             position: absolute;
-            top: 0;
-            right: 19%;
+            top:33px;
+            right: 23%;
             background-color: rgba(0, 0, 0, 0.55);
             border: 1px solid rgba(196, 196, 196, 0.2784313725);
             backdrop-filter: blur(4px);

diff --git a/scss/_s-contact.scss b/scss/_s-contact.scss
@@ -42,7 +42,7 @@
         }
 
         &:hover {
-            background-color: #a6ffff;
+            background-color: $brand-main;
 
             .btn-contact {
                 background-color: $white;
